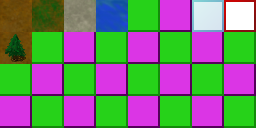
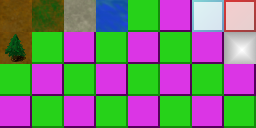
Improved movement and attack setup and displays.

Changed region(s): [[0.875, 0.0, 1.0, 0.5], [0.0625, 0.4375, 0.0938, 0.4688]]

diff --git a/src/units/Base.java b/src/units/Base.java
@@ -20,24 +20,24 @@ public class Base {
 	public boolean acted;
 	
 	//Location
+	/**This is the movement type of the unit.
+	 * 0 = Infantry
+	 * 1 = Vehicle
+	 * 2 = Ship
+	 * 3 = Aircraft*/
+	int MovType = 0;
 	public int x;
 	public int y;
 	public int oldx;
 	public int oldy;
 	public int speed = 2;
 	
-	//Ranges TODO: Change this to something better. (Move = A* path-finding, Attack = anything better)
-	public boolean[] atkrange = {false,true,false,true,false,true,false,true,false};
-	public boolean[] movrange = {
-			false,false,true,false,false,
-			false,true,true,true,false,
-			true,true,false,true,true,
-			false,true,true,true,false,
-			false,false,true,false,false};
-	
 	//Battle Settings
+	public int Fog = 5;//Fog of war setting.
 	public double attack = 100;//Base damage done to others
 	public double defense = 60;//Base armor for taking damage
+	public int MaxAtkRange = 1;//How many squares away from the unit can it attack. (1 being default, 0 being none)
+	public int MinAtkRange = 1;//This is used for ranged units such as artillery.
 	
 	/** I need to add what kind of unit is being constructed or split it into extended classes.
 	 * 
@@ -46,12 +46,12 @@ public class Base {
 	 * @param yy = The Y location of the unit.
 	 */
 	public Base(int owner, int xx, int yy, boolean active) {
-		this.owner=owner;
+		this.owner = owner;
 		oldx = x = xx;//Old locations are used when someone changes their minds on moving a unit.
 		oldy = y = yy;
 		if (!active) {
-			acted=true;
-			moved=true;	
+			acted = true;
+			moved = true;	
 		}
 	}
 	
@@ -65,9 +65,9 @@ public class Base {
 		}
 	}
 	/**Returns true if the x,y location is a place your unit can walk on.*/
-	private boolean moveable(int destx, int desty) {
-		//TODO: Either put path finding here, or use this as a tool for path finding.
+	public boolean moveable(int destx, int desty) {//TODO: Either put path finding here, or use this as a tool for path finding.
 		if (destx<0||desty<0) {return false;}
+		if (destx>=Game.map.width||desty>=Game.map.height) {return false;}
 		int movex = (destx>x) ? destx-x : x-destx;//Finds the total distance traveled.
 		int movey = (desty>y) ? desty-y : y-desty;
 		if (movex+movey>speed) {return false;}//Hack for use since I don't have the path finding yet.
@@ -75,15 +75,22 @@ public class Base {
 			if (unit.x==x&&unit.y==y) {}//HACK: So you can stand still instead of being forced to move.
 			else if (unit.x==destx&&unit.y==desty) {return false;}
 		}
-		if (Game.map.Walkable(Game.map.map[desty][destx])) {return true;}
+		switch (MovType) {//This is used to find out if the unit can move to said tile or not.
+			case 0: if (Game.map.Walkable(Game.map.map[desty][destx])) {return true;} break;
+			case 1: if (Game.map.Driveable(Game.map.map[desty][destx])) {return true;} break;
+			case 2: if (Game.map.Swimable(Game.map.map[desty][destx])) {return true;} break;
+			case 3: if (Game.map.Flyable(Game.map.map[desty][destx])) {return true;} break;
+			default: if (Game.map.Flyable(Game.map.map[desty][destx])) {return true;} break;
+		}
 		return false;
 	}
+	
 	public void attack(int destx, int desty) {
 		Random rand = new Random();
 		if (acted) {return;}
 		units.Base target = FindTarget(destx, desty, true, false);
 		if (target!=null) {
-			if (!inrange(target)) {acted=true;return;}
+			if (!inrange(target.x, target.y)) {acted=true;return;}
 			double damage = (attack-target.defense)+(rand.nextInt(20)-10)/10;
 			if (damage<1) {damage=1;}
 			target.health-=damage;
@@ -97,6 +104,7 @@ public class Base {
 			  System.out.println("Enemy unit now has " + target.health + " hp left!");
 			}
 		}
+		/**Capturing stuff*/
 		if (destx==x&&desty==y) {
 			buildings.Base bld = FindBuilding();
 			if (bld!=null) {
@@ -115,12 +123,13 @@ public class Base {
 		return null;
 	}
 	/**Finds out if the character is in an attackable location by sweeping through the atkrange list.*/
-	private boolean inrange(units.Base target) {//TODO: Unhacks with a sweep through attackable locations and units.
-		if (target.x==x+1 && target.y==y) {return true;}
-		if (target.x==x-1 && target.y==y) {return true;}
-		if (target.x==x && target.y==y+1) {return true;}
-		if (target.x==x && target.y==y-1) {return true;}
-		return false;
+	public boolean inrange(int xx, int yy) {
+		//TODO: Add in calculations for type (line / sphere / cone), it is currently only sphere
+		xx = (xx>x) ? xx-x : x-xx;//Finds the total distance.
+		yy = (yy>y) ? yy-y : y-yy;
+		if (xx+yy>MaxAtkRange) {return false;}
+		if (xx+yy<MinAtkRange) {return false;}
+		return true;
 	}
 	/**This finds a unit with the x and y coordinates and returns their data to be used, friendly-fire set to true to find allies, hostile-fire to attack foes.*/
 	private units.Base FindTarget(int destx, int desty, boolean hostilefire, boolean friendlyfire) {
@@ -144,14 +153,10 @@ public class Base {
 
 	/**Undoes what the unit has done so far.*/
 	public void cancle() {
-		if (moved&&!acted) {//If you moved, but haven't acted yet.
+		if (moved&&!acted) {
 			moved=false;
 			x=oldx;
 			y=oldy;
-		}
-		else if (!moved) {//Can't remember exactly how this is different from the above.
-			move(oldx,oldy);
-			moved=false;
 		}
 	}
 }

diff --git a/src/engine/Gui.java b/src/engine/Gui.java
@@ -101,7 +101,7 @@ public class Gui extends JPanel {
 		case Game.TheMenu:
 		break;
 		case Game.Playing:
-			//TODO: Dealth with who is currently playing better.
+			//TODO: Deal with who is currently playing better.
 			if (Game.btl.currentplayer==0) {gg.setColor(new Color(60,0,0));}
 			else {gg.setColor(new Color(0,0,60));}
 			gg.fillRect(0, 0, width, height);
@@ -116,7 +116,7 @@ public class Gui extends JPanel {
 					Game.player.get(Game.btl.currentplayer).selectx*32,
 					Game.player.get(Game.btl.currentplayer).selecty*32,
 					Game.player.get(Game.btl.currentplayer).selectx*32+32,
-					Game.player.get(Game.btl.currentplayer).selecty*32+32,32*7,0,32*8,32,null);
+					Game.player.get(Game.btl.currentplayer).selecty*32+32,32*7,32,32*8,64,null);
 			//TODO: Draw any foreground effects.
 		break;
 		}
@@ -161,21 +161,22 @@ public class Gui extends JPanel {
 			if (unit.acted) {
 				gg.drawString("Finished.",offset,64);
 			}
-			else if (unit.moved&&!unit.acted) {int i=0;
+			else if (unit.moved&&!unit.acted) {
 				gg.drawString("Attacking.",offset,64);
-				for (int y = unit.y-1; y <= unit.y + 1; y++) {//TODO: Do something with this.
-					for (int x = unit.x-1; x <= unit.x + 1; x++) {
-						if (unit.atkrange[i]) {gg.drawImage(Game.img_tile,x*32,y*32,x*32+32,y*32+32,32*6,0,32*7,32,null);}
-						i++;
-			}	}	}
-			else if (!unit.moved) {int i=0;
+				for (int y = unit.y - unit.MaxAtkRange; y <= unit.y + unit.MaxAtkRange; y++) {
+					for (int x = unit.x - unit.MaxAtkRange; x <= unit.x + unit.MaxAtkRange; x++) {
+						if (unit.inrange(x,y)) {gg.drawImage(Game.img_tile,x*32,y*32,x*32+32,y*32+32,32*7,0,32*8,32,null);}
+					}
+				}
+			}
+			else if (!unit.moved) {
 				gg.drawString("Moving",offset,64);
-				for (int y = unit.y - 2; y <= unit.y + 2; y++) {//TODO: Do something with this.
-					for (int x = unit.x - 2; x <= unit.x + 2; x++) {
-						if (unit.movrange[i]) {gg.drawImage(Game.img_tile,x*32,y*32,x*32+32,y*32+32,32*6,0,32*7,32,null);}
-						i++;
-			}	}	}
-			
+				for (int y = unit.y - unit.speed; y <= unit.y + unit.speed; y++) {
+					for (int x = unit.x - unit.speed; x <= unit.x + unit.speed; x++) {
+						if (unit.moveable(x,y)) {gg.drawImage(Game.img_tile,x*32,y*32,x*32+32,y*32+32,32*6,0,32*7,32,null);}
+					}
+				}
+			}
 			//UNIT SELECTION STUFFIES!
 			int[] loc = unit.DrawMe();
 			gg.drawImage(Game.img_char,

diff --git a/src/engine/Game.java b/src/engine/Game.java
@@ -138,14 +138,20 @@ public class Game extends JFrame {
 		}
 		
 	}
-	//TODO: Selecting a working building without a unit on top brings up it's menu.
+	//TODO: Selecting a working building without a unit on top brings up it's menu. (close to working now)
+	//TODO: Find out how to display units, buildings, and the map before entering a battle / in a menu
+	//TODO: More battle settings
+	//TODO: Fog of war
+	//TODO: A star path finding, I finally understand how to do it after thinking for a few minutes. :D
+	//TODO: Force buildings owned by none existing players / teams to turn neutral.
 	//TODO: Rework the map so that it works better
 	//TODO: Create a map editor
-	//TODO: Actually make some sprites to use.
 	//TODO: Reorganize sprite sheets to support animations on units
 	//TODO: Add more tiles
 	//TODO: When units are on a building, they gain health at the beginning of their turn (if enough money)
 	//TODO: End game setup, someone wins when someone else loses all their units (and can't make more), or loses their capital building.
+	//MAYBE: Set it up so tiles and cities are based on the same item and combine them into the map array (change it from integer to object).
+	//That should set it up so that finding cities a unit is on easier as well as make the map file itself easier..
 	
 	/**Starts a new game when launched.*/
 	public static void main(String args[]) throws Exception {new Game();}

diff --git a/src/engine/Map.java b/src/engine/Map.java
@@ -45,8 +45,9 @@ public class Map {
 	}
 	
 	public boolean Walkable(int i) {if (tiles.get(i).walk()) {return true;}return false;}
+	public boolean Driveable(int i) {if (tiles.get(i).drive()) {return true;}return false;}
 	public boolean Swimable(int i) {if (tiles.get(i).swim()) {return true;}return false;}
-	public boolean FlyAble(int i) {if (tiles.get(i).fly()) {return true;}return false;}
+	public boolean Flyable(int i) {if (tiles.get(i).fly()) {return true;}return false;}
 	
 	/**Loads all of the tiles that are used in the map into an array list.*/
 	private void LoadTiles() {

diff --git a/src/units/Mechanic.java b/src/units/Mechanic.java
@@ -4,10 +4,10 @@ public class Mechanic extends Base {
 
 	public Mechanic(int owner, int xx, int yy, boolean active) {
 		super(owner, xx, yy, active);
-		name="Mechanic";
-		nick="Mech";
-		desc="Slow infantry with some anti vehicle stuff.";
-		img=0;
+		name = "Mechanic";
+		nick = "Mech";
+		desc = "Slow infantry with some anti vehicle stuff.";
+		img = 0;
 	}
 
 }

diff --git a/src/units/Infantry.java b/src/units/Infantry.java
@@ -4,10 +4,10 @@ public class Infantry extends Base {
 
 	public Infantry(int owner, int xx, int yy, boolean active) {
 		super(owner, xx, yy, active);
-		name="Infantry";
-		nick="Inf";
-		desc="Weakest units here.";
-		img=0;
+		name = "Infantry";
+		nick = "Inf";
+		desc = "Weakest units here.";
+		img = 0;
 	}
 
 }

diff --git a/src/units/SmallTank.java b/src/units/SmallTank.java
@@ -4,10 +4,10 @@ public class SmallTank extends Base {
 
 	public SmallTank(int owner, int xx, int yy, boolean active) {
 		super(owner, xx, yy, active);
-		name="Small Tank";
-		nick="STnk";
-		desc="A small tank.";
-		img=0;
+		name = "Small Tank";
+		nick = "STnk";
+		desc = "A small tank.";
+		img = 0;
 	}
 
 }

diff --git a/src/buildings/Barracks.java b/src/buildings/Barracks.java
@@ -6,7 +6,7 @@ public class Barracks extends Base {
 		super(owner, team, xx, yy);
 		name="Capital";
 		desc="Creates ground units.";
-		img = 0;
+		img = 4;
 	}
 
 	public void OpenMenu() {}
